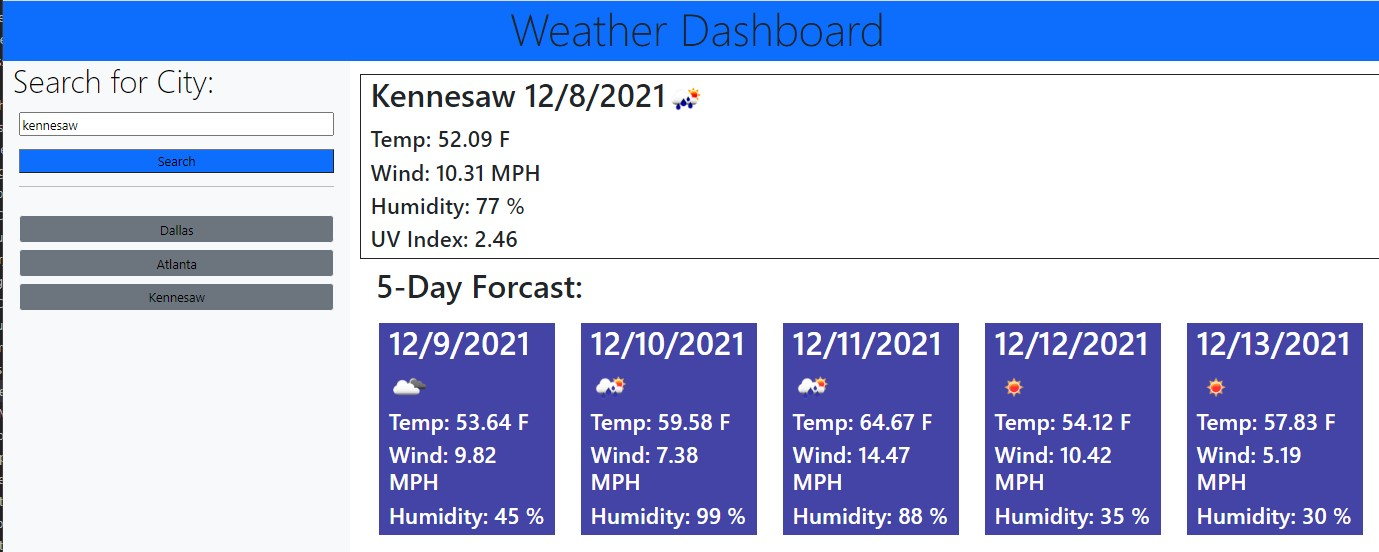
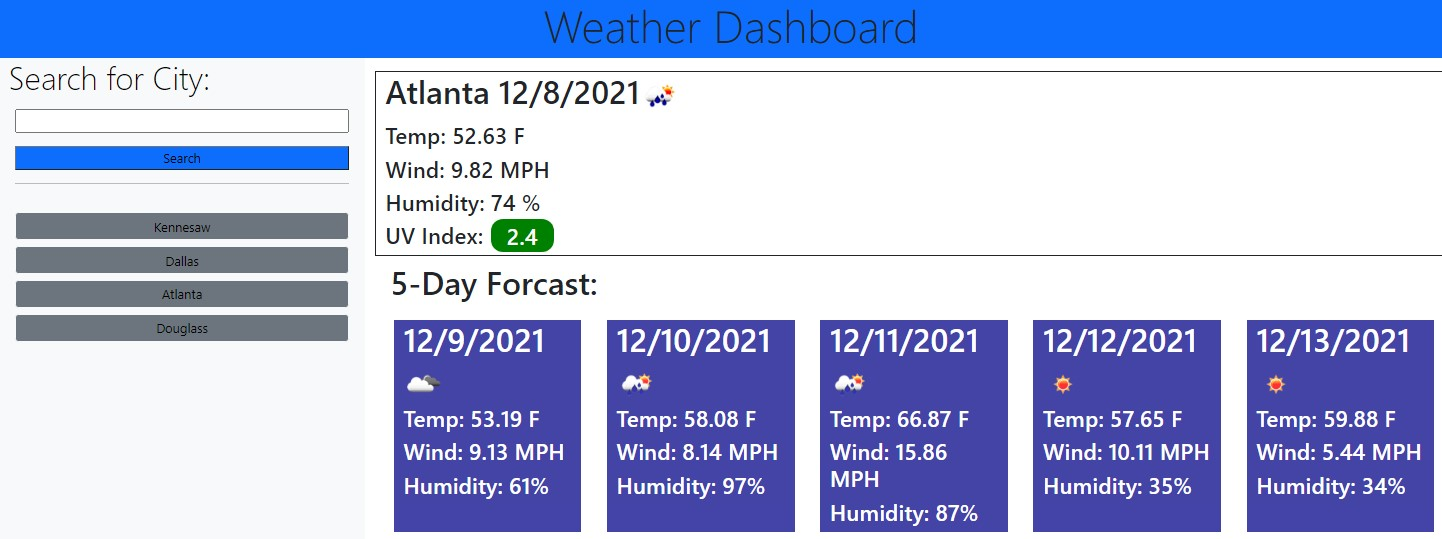
readme image, added listener for textbox search and added comments and clean code

Changed region(s): [[0.0, 0.0, 1.0, 1.0], [0.2495, 0.2375, 0.3742, 0.2672]]

diff --git a/Assets/js/script.js b/Assets/js/script.js
@@ -4,6 +4,7 @@ var cord;
 var eventBtn
 var hiddenEls = document.querySelectorAll('.d-none')
 
+//event listener for loading selected cached weather for city (previous search - buttons)
 function cacheBtn(){
 
     $("button#newbutton").on("click", function(){
@@ -18,7 +19,7 @@ function cacheBtn(){
 }
 
 
-
+//gets data from api
 function getWeather(city){
     var requestOptions = {
         method: 'GET',
@@ -43,7 +44,7 @@ function getWeather(city){
 
 
 
-
+//gets data from api by latitude and longitude for the forcast
 function getForcastbyLatitude(lat, lon){
   
     var requestOptions = {
@@ -67,7 +68,7 @@ function getForcastbyLatitude(lat, lon){
    }
    
 
-
+//coverts unix UTC time to local time
 function convertUniUTCtoLocal(unixutc){
 
     var date = new Date(unixutc * 1000);
@@ -76,55 +77,32 @@ function convertUniUTCtoLocal(unixutc){
     return (date.toLocaleString().split(","))[0]
 }
 
-
-function loadForcast(){
-
-forcastCount = 0
-while(forcastCount < 6){
-
-console.log(convertUniUTCtoLocal(weathercast.daily[forcastCount].dt))
-console.log(weathercast.daily[forcastCount].temp.day)
-console.log(weathercast.daily[forcastCount].wind_speed)
-console.log(weathercast.daily[forcastCount].humidity)
-console.log(weathercast.daily[forcastCount].uvi)
-console.log(weathercast.daily[forcastCount].weather[0].icon)
-console.log('icon url: https://openweathermap.org/img/w/'+weathercast.daily[forcastCount].weather[0].icon+'.png')
-console.log(forcastCount)
-forcastCount++;
-
-
-
-}//End While loop
-
-}//End loadForcast function
-
-
-
+//loads data in the html page
 function load(){
     
     var Fordcastday0 =$('#Fday')
   
 
-    console.log(weathercast)
+    // console.log(weathercast)
 
     for(i=0; i < weathercast.daily.length;i++){
 
         if(i >0){
-        console.log("date "+ convertUniUTCtoLocal(weathercast.daily[i].dt) )
-        console.log("icon "+ weathercast.daily[i].weather[0].icon)
-        console.log("temp "+ weathercast.daily[i].temp.day)
-        console.log("wind "+ weathercast.daily[i].wind_speed)
-        console.log("humidity "+ weathercast.daily[i].humidity)
+        // console.log("date "+ convertUniUTCtoLocal(weathercast.daily[i].dt) )
+        // console.log("icon "+ weathercast.daily[i].weather[0].icon)
+        // console.log("temp "+ weathercast.daily[i].temp.day)
+        // console.log("wind "+ weathercast.daily[i].wind_speed)
+        // console.log("humidity "+ weathercast.daily[i].humidity)
         $('#Fday'.concat(i)).children().remove()
         $('#Fday'.concat(i)).append('<h1 class="text-start" id="Fday1date">'+convertUniUTCtoLocal(weathercast.daily[i].dt)+'</h1><img src="http://openweathermap.org/img/w/'+weathercast.daily[i].weather[0].icon+'.png" alt="img.jpg"><h3 class="text-start" id="Fday1">Temp: '+weathercast.daily[i].temp.day+' F</h3><h3 class="text-start" id="Fday1">Wind: '+weathercast.daily[i].wind_speed+' MPH</h3><h3 class="text-start" id="Fday1">Humidity: '+weathercast.daily[i].humidity+'%</h3>')
         }
 
         if(i===0){
-        console.log("city: "+cord.name + " date "+ convertUniUTCtoLocal(weathercast.daily[i].dt) +" icon "+weathercast.daily[i].weather[0].icon )
-        console.log("temp "+ weathercast.daily[i].temp.day)
-        console.log("wind "+ weathercast.daily[i].wind_speed)
-        console.log("humidity "+ weathercast.daily[i].humidity)
-        console.log("UV Index "+ weathercast.daily[i].uvi)
+        // console.log("city: "+cord.name + " date "+ convertUniUTCtoLocal(weathercast.daily[i].dt) +" icon "+weathercast.daily[i].weather[0].icon )
+        // console.log("temp "+ weathercast.daily[i].temp.day)
+        // console.log("wind "+ weathercast.daily[i].wind_speed)
+        // console.log("humidity "+ weathercast.daily[i].humidity)
+        // console.log("UV Index "+ weathercast.daily[i].uvi)
         Fordcastday0.children().remove()
         Fordcastday0.append('<h1 class="text-start" id="Fday">'+cord.name+" "+convertUniUTCtoLocal(weathercast.daily[i].dt)+'<img src="http://openweathermap.org/img/w/'+weathercast.daily[i].weather[0].icon+'.png" alt="img.jpg"></h1><h3 class="text-start" id="Fday">Temp: '+weathercast.daily[i].temp.day+' F</h3><h3 class="text-start" id="Fday">Wind: '+weathercast.daily[i].wind_speed+' MPH</h3><h3 class="text-start" id="Fday">Humidity: '+weathercast.daily[i].humidity+' %</h3><h3 class="text-start" id="Fday">UV Index: <span style="display:inline; border-radius: 15px; width: 30px; background-color: green; margin: 2px; padding: 2px 20px 2px 20px; color: white;">'+weathercast.daily[i].uvi+'</span> </h3>')
 
@@ -138,6 +116,7 @@ function load(){
     
 }
 
+//loads data in HTML and also adds the data to the local storage this is when search button is triggered
 function displayResults() {
 
     load()
@@ -156,13 +135,16 @@ function displayResults() {
 
 }
 
+//helper function to store data to the local storage
 function storeContent(forcastname, corname){
-    console.log(JSON.stringify(weathercast))
+    // console.log(JSON.stringify(weathercast))
    localStorage.setItem(forcastname.toUpperCase(), JSON.stringify(weathercast))
    localStorage.setItem(corname.toUpperCase(), JSON.stringify(cord))
   
 }
 
+
+//helper function to read data from local storage
 function retrieveContent(name){
 
     return JSON.parse(localStorage.getItem(name.toUpperCase()))
@@ -171,44 +153,29 @@ function retrieveContent(name){
 }
 
 
-//Event Listeners
-
-
-
+//event listener for searching
 var SerchBtnEl = document.getElementById('searchBtn')
 var SearchTB = document.getElementById('lblcity')
 console.log(SearchTB.value)
 
-SerchBtnEl.addEventListener('click', function(event) {
+function search(event) {
 
     eventBtn =event
     console.log(event)
-    
-    
     if(SearchTB.value !== ""){
 
         getWeather(SearchTB.value)
-        
-        
-        
+               
     }
+    SearchTB.value = ""
+     
+}
 
-   
-
-
-
-// var cachedBtn = document.getElementById("cachedBtn")
-// cachedBtn.addEventListener('click',function(){
-//     console.log(this)
-//     weathercast = retrieveContent(this.id.concat('w').toUpperCase())
-//     cord = retrieveContent(this.innerText.concat('c').toUpperCase())
-//     load()
-
-// })
-    
-   
- 
-    
+//event listener for search button
+SerchBtnEl.addEventListener('click', search())
+//event listener for search textbox
+SearchTB.addEventListener('keyup', function(event){
+    if(event.keyCode === 13){search()}
 })
 
 // end

diff --git a/index.html b/index.html
@@ -40,36 +40,18 @@
                    
                 <!-- </form> -->
 
-                <div class="d-block gap-3 w-100 p-2" id=cachedBtn>
-                    <!-- <button class="btn btn-light p-1 bg-secondary max-height:10px" id="newbtn"  from-control-lg>temptbtn1</button>
-                    <button class="btn btn-light p-1 bg-secondary" id="newbtn" from-control-lg>temptbtn1</button>
-                    <button class="btn btn-light p-1 bg-secondary" id="newbtn" from-control-lg>temptbtn1</button> -->
-
-                </div>
+                <div class="d-block gap-3 w-100 p-2" id=cachedBtn></div>
             
             </div>
             <div class="col-md-9 pt-3 pe-4 px-4">
                 <div class="row border border-dark d-none">
-                    <div class="col-md-12" id=Fday>
-                        <!-- <h1 class="CityLbl" id="cityDateIcon">City and date</h1>
-                        <h1 class="cityAttrib" id="temp">temp text</h1>
-                        <h1 class="cityAttrib" id="wind">temp text</h1>
-                        <h1 class="cityAttrib" id="humidity">temp text</h1>
-                        <h1 class="cityAttrib" id="uv">temp text</h1> -->
-                        
-
-                    </div>
+                    <div class="col-md-12" id=Fday></div>
                     
                 </div>
 
                 <div class="row p-2 d-none">
                     <h1 class="">5-Day Forcast:</h1>
-                    <div class="col col-xm-4 dayfc" id="Fday1">
-                        <!-- <h1 class="disaply-4 text-center" id="Fday1date"></h1>
-                        <h1 class="disaply-4 text-center" id="Fday1icon"></h1>
-                        <h1 class="disaply-4 text-center" id="Fday1"></h1>
-                        <h1 class="disaply-4 text-center" id="Fday1"></h1> -->
-                    </div>
+                    <div class="col col-xm-4 dayfc" id="Fday1"></div>
                     <div class="col col-xm-4 dayfc" id="Fday2"></div>
                     <div class="col col-xm-4 dayfc" id="Fday3"></div>
                     <div class="col col-xm-4 dayfc" id="Fday4"></div>
@@ -81,9 +63,7 @@
                 
             </div>
         </div>
-        <!-- <h1 class="cityAttrib" id="uv">temp <span style="color: white; display:inline; border-radius: 28px; width: 30px; background-color: cadetblue;margin: 2px; padding: 2px 20px 2px 20px;">34</span></h1>
-       -->
-
+     
     </div>
 
 
